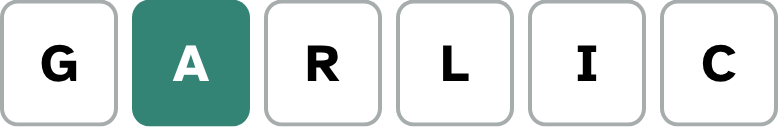
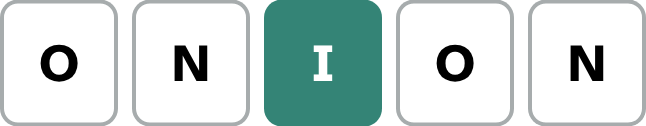
Change examples in instructions to reflect 5-letter word limit

diff --git a/js/help.js b/js/help.js
@@ -2,17 +2,16 @@ export function createHelpModal() {
   const html = `
   <button class="close-modal">&times;</button>
   <h1>Instructions</h1>
-  <h2>Guess the food item in 6 tries!</h2>
+  <h2>Guess the 5-letter food item in 6 tries!</h2>
   <ul>
-    <li>The food item can be 4, 5 or 6 letters long</li>
-    <li>Each guess must be a valid food item with the correct length</li>
+    <li>Each guess must be a valid food item that is 5 letters long</li>
     <li>After entering each word, the colour of the tiles change to reveal how close your guess was to the word</li>
   </ul>
   <h2>Examples</h2>
   <img src="assets/instructions-1.png" alt="correct letter" class="modal-img">
-  <p>A is in the word and in the correct spot</p>
+  <p>I is in the word and in the correct spot</p>
   <img src="assets/instructions-2.png" alt="present letter" class="modal-img">
-  <p>K is in the word but in the wrong spot.</p>
+  <p>U is in the word but in the wrong spot.</p>
   <img src="assets/instructions-3.png" alt="absent letter" class="modal-img">
   <p>T is not in the word in any spot.</p>`;
 
